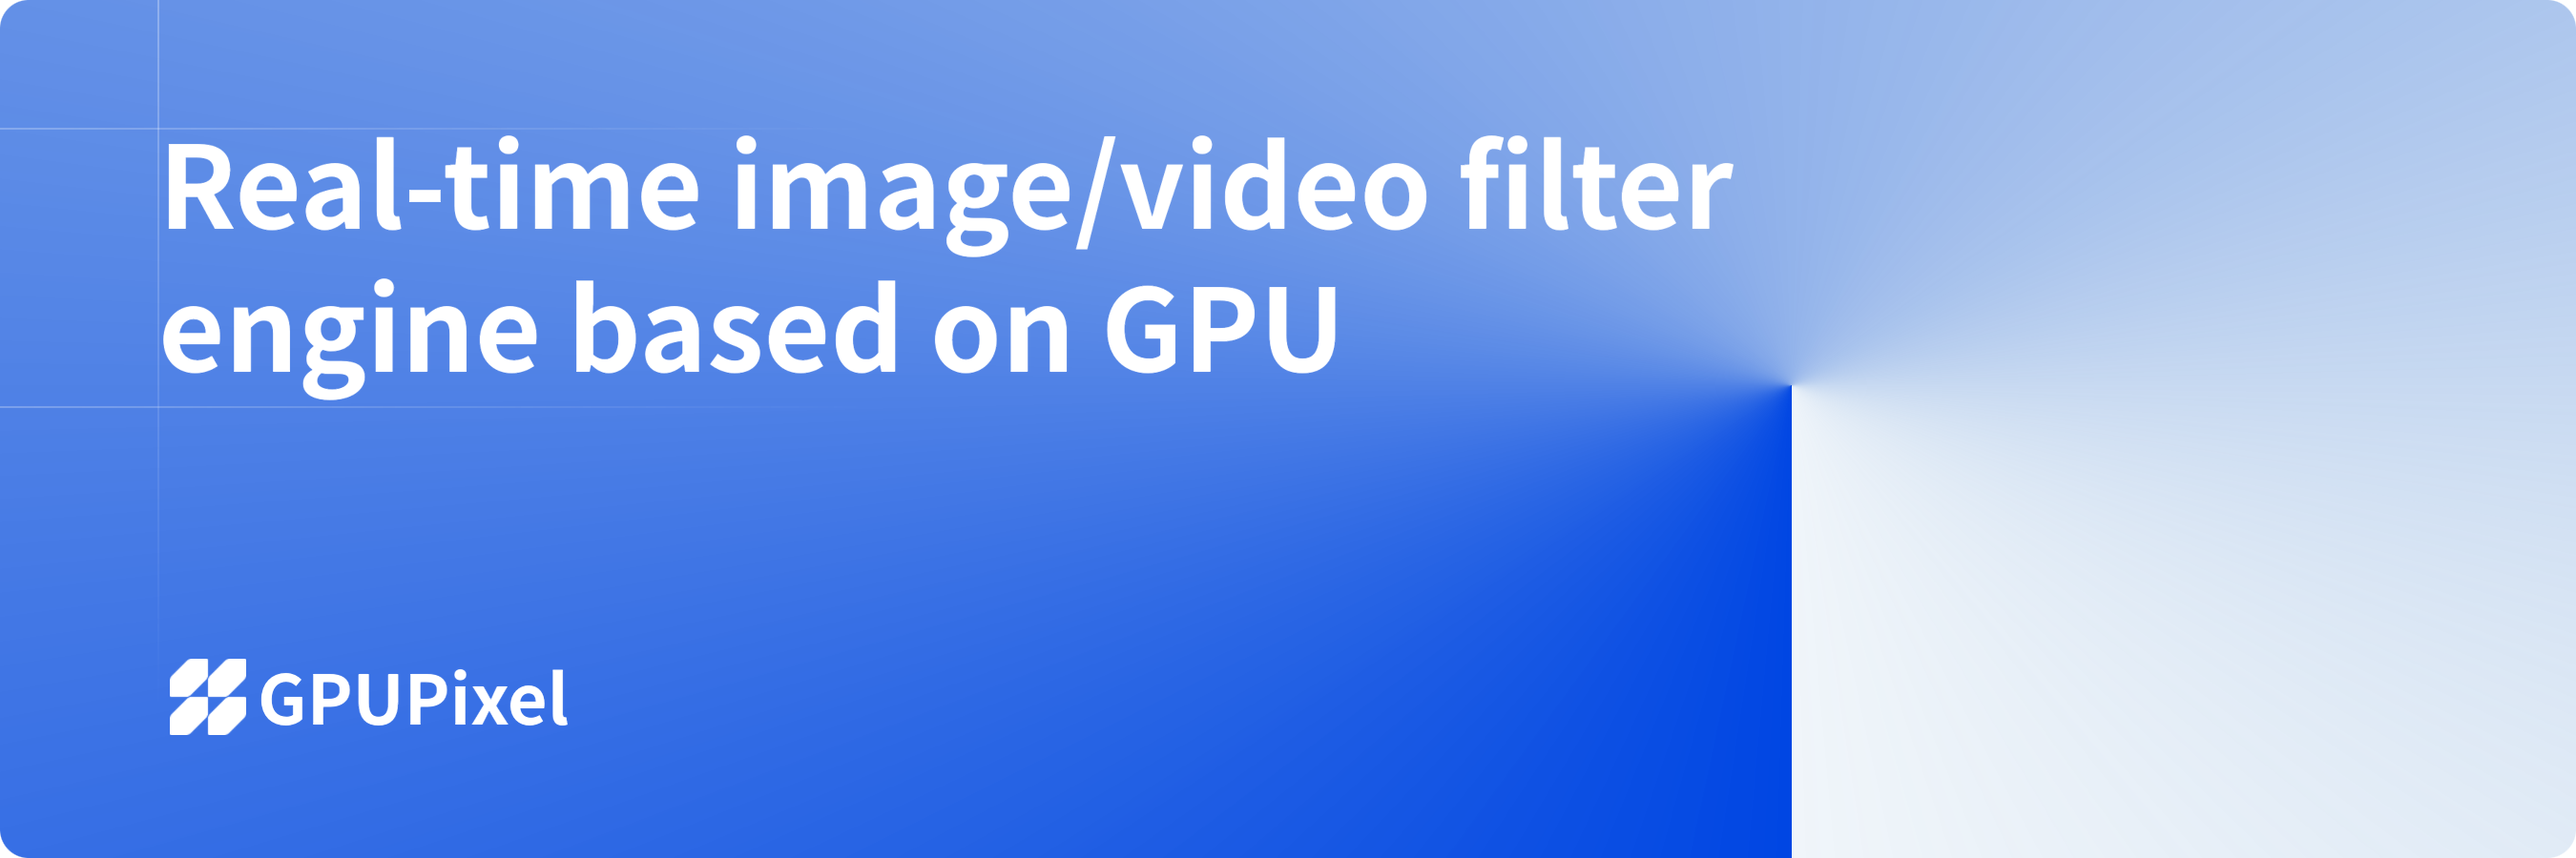
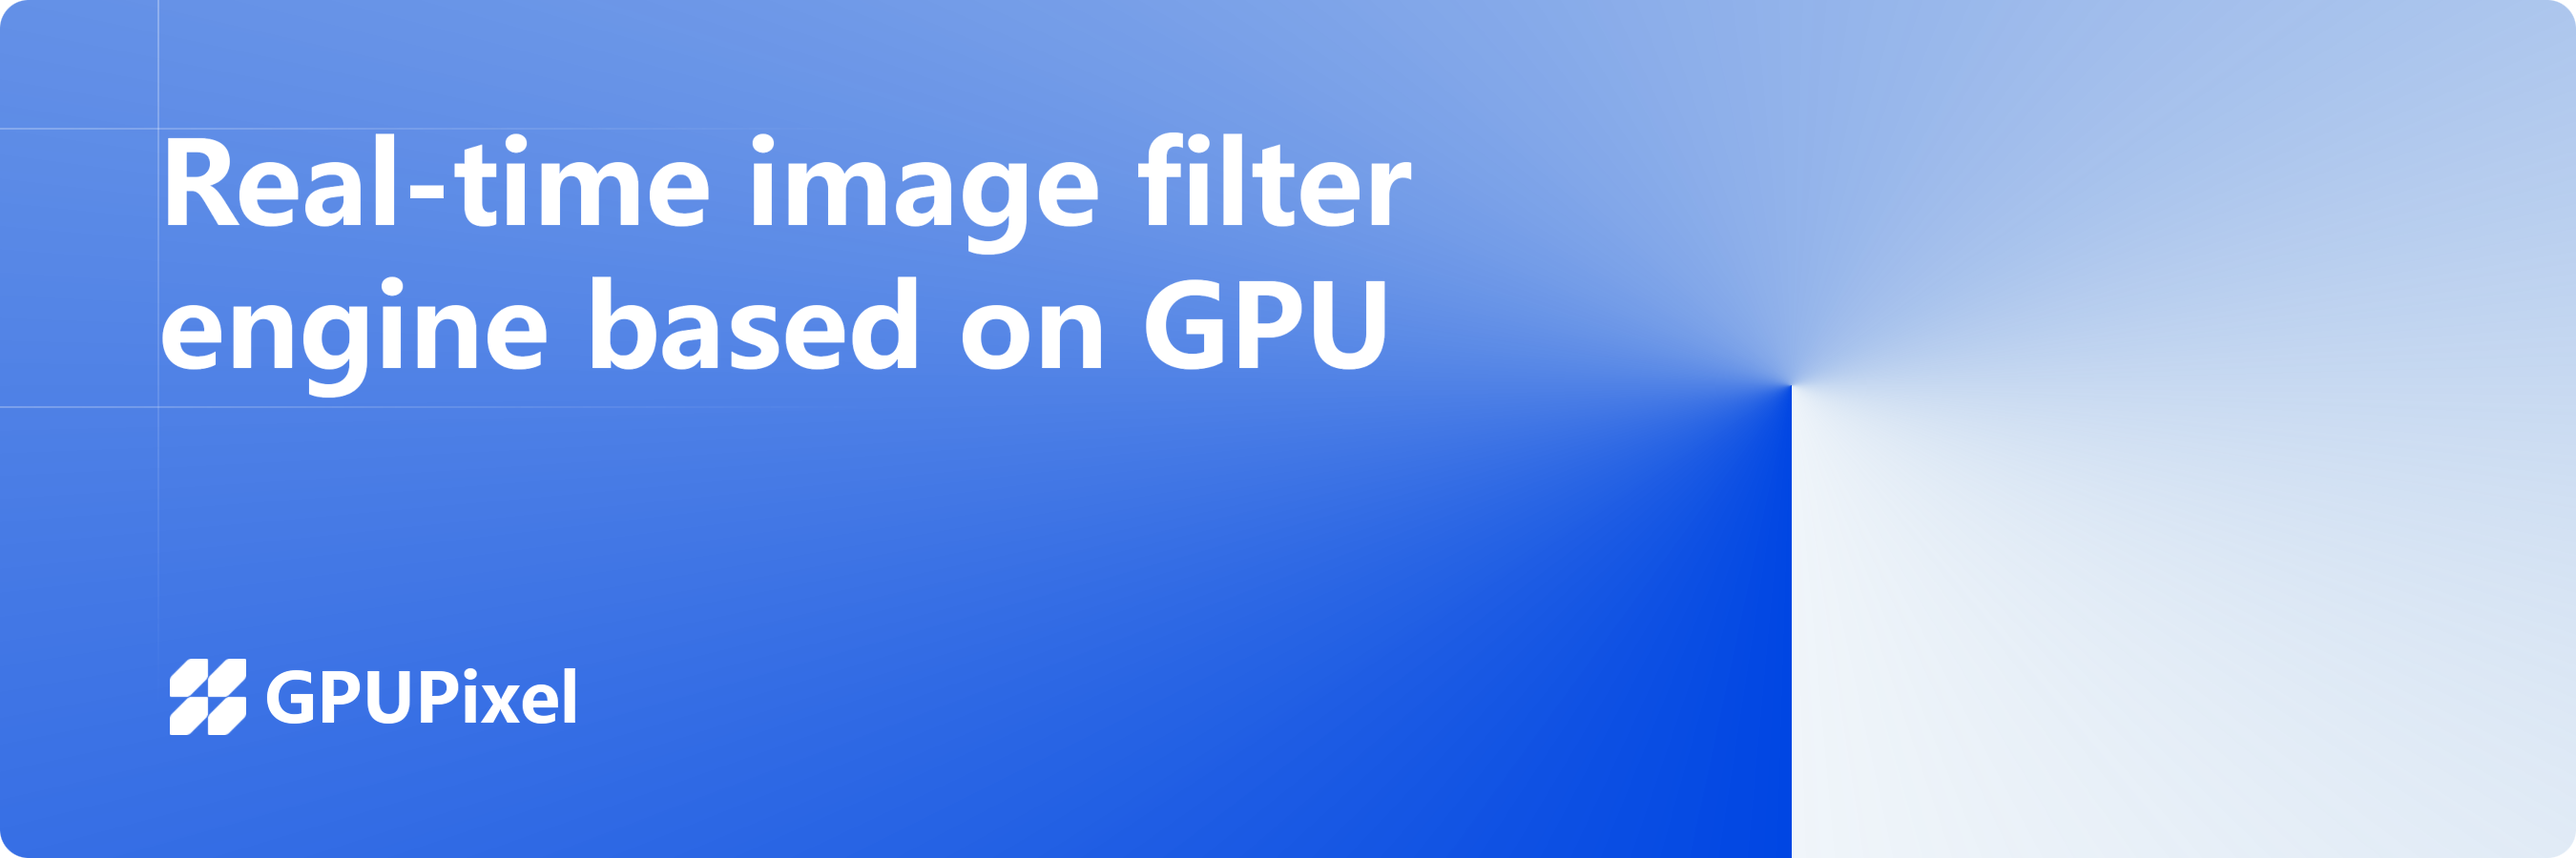
udpate doc

Changed region(s): [[0.0622, 0.1556, 0.6844, 0.3111], [0.0622, 0.3111, 0.56, 0.4667], [0.0933, 0.7778, 0.2489, 0.8711]]

diff --git a/docs/docs/en/index.md b/docs/docs/en/index.md
@@ -3,8 +3,8 @@ layout: home
 
 hero:
   name: "GPUPixel"
-  text: "GPU-based Realtime AI Beauty Filter Library"
-  tagline: 'High Performance, Cross-Platform'
+  text: "Real-time image filter engine based on GPU"
+  tagline: 'high performance and cross-platform'
   image:
       src: /cover.png
       alt: cover

diff --git a/docs/docs/zh/index.md b/docs/docs/zh/index.md
@@ -4,7 +4,7 @@ layout: home
 
 hero:
   name: "GPUPixel"
-  text: "基于GPU的实时AI图像美颜滤镜库"
+  text: "基于GPU的实时图像滤镜库"
   tagline: '高性能, 跨平台'
   image:
       src: /cover.png
